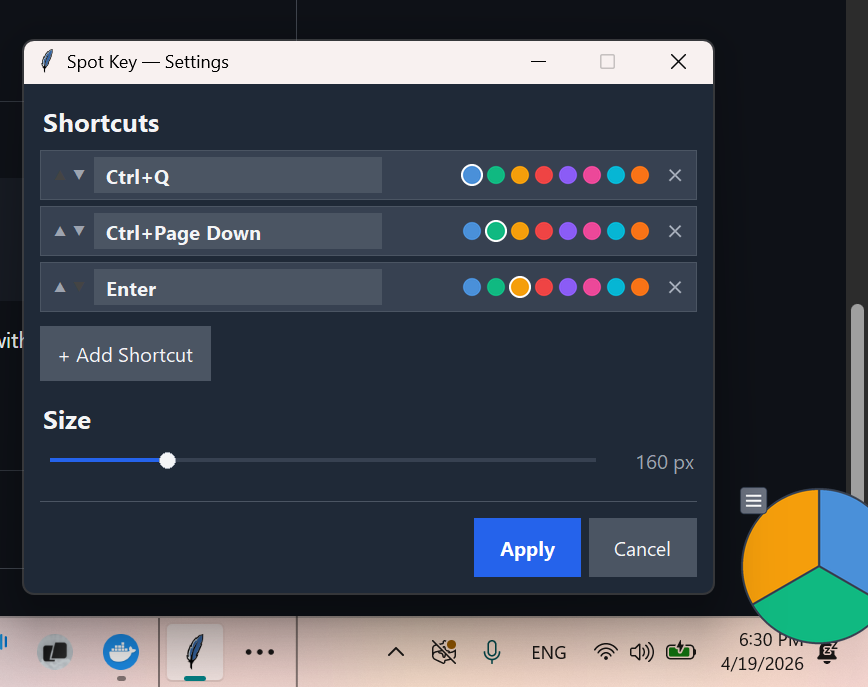
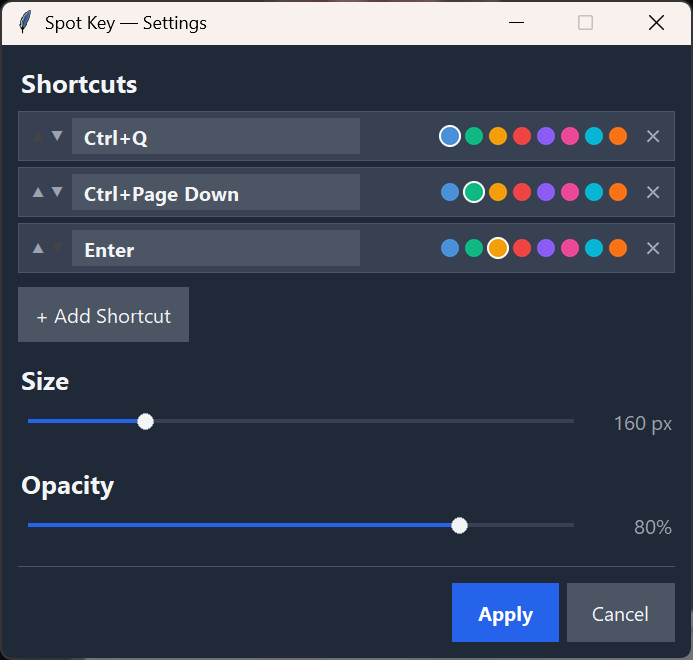
Update screenshots and add automated settings capture script
Updated both README screenshots to show the new opacity slider:
- screenshot.png: pie overlay at 80% opacity
- screenshot-settings.png: settings dialog with opacity slider visible

Added take_screenshot.py which programmatically opens the Settings dialog
using the current saved config, captures the window, and saves it as
screenshot-settings.png. This makes future README updates a single command:
  uv run python take_screenshot.py

The script creates a hidden tk root, loads shortcuts/diameter/opacity from
the config file, instantiates SettingsDialog with no-op callbacks, waits
for it to render, then uses DwmGetWindowAttribute + PIL.ImageGrab to
capture the exact window bounds.

diff --git a/take_screenshot.py b/take_screenshot.py
@@ -1,0 +1,120 @@
+"""Capture the Settings dialog and save as screenshot-settings.png.
+
+Usage:
+    uv run python take_screenshot.py
+
+Opens the Settings dialog using the current saved config (shortcuts,
+diameter, opacity), waits for it to render, captures the window, and
+saves the result to screenshot-settings.png in the project root.
+
+Fully automated — no need to have the app running.
+"""
+
+import ctypes
+import ctypes.wintypes as wt
+import sys
+import time
+import tkinter as tk
+from pathlib import Path
+
+from PIL import ImageGrab
+
+# Make process DPI-aware before any window creation
+ctypes.windll.user32.SetProcessDPIAware()
+
+SETTINGS_TITLE = "Spot Key \u2014 Settings"
+OUT_PATH = Path(__file__).parent / "screenshot-settings.png"
+
+
+def find_window(title: str) -> int | None:
+    """Find a visible window by exact title. Returns HWND or None."""
+    user32 = ctypes.windll.user32
+    result = []
+
+    @ctypes.WINFUNCTYPE(ctypes.c_bool, wt.HWND, wt.LPARAM)
+    def callback(hwnd, _):
+        if user32.IsWindowVisible(hwnd):
+            length = user32.GetWindowTextLengthW(hwnd)
+            if length:
+                buf = ctypes.create_unicode_buffer(length + 1)
+                user32.GetWindowTextW(hwnd, buf, length + 1)
+                if buf.value == title:
+                    result.append(hwnd)
+        return True
+
+    user32.EnumWindows(callback, 0)
+    return result[0] if result else None
+
+
+def get_window_rect(hwnd: int) -> tuple[int, int, int, int]:
+    """Get the extended frame bounds (tight, no invisible shadow)."""
+    rect = wt.RECT()
+    # DWMWA_EXTENDED_FRAME_BOUNDS = 9
+    hr = ctypes.windll.dwmapi.DwmGetWindowAttribute(
+        hwnd, 9, ctypes.byref(rect), ctypes.sizeof(rect)
+    )
+    if hr == 0:
+        return rect.left, rect.top, rect.right, rect.bottom
+    ctypes.windll.user32.GetWindowRect(hwnd, ctypes.byref(rect))
+    return rect.left, rect.top, rect.right, rect.bottom
+
+
+def capture_and_exit(root: tk.Tk) -> None:
+    """Find the Settings window, capture it, destroy the root, and exit."""
+    hwnd = find_window(SETTINGS_TITLE)
+    if hwnd is None:
+        print("ERROR: Settings window not found after opening.")
+        root.destroy()
+        sys.exit(1)
+
+    # Bring to front and let it fully paint
+    ctypes.windll.user32.SetForegroundWindow(hwnd)
+    root.update()
+    time.sleep(0.15)  # let DWM finish compositing
+
+    left, top, right, bottom = get_window_rect(hwnd)
+    print(f"Window rect: ({left}, {top}) - ({right}, {bottom})")
+    print(f"Size: {right - left} x {bottom - top}")
+
+    img = ImageGrab.grab(bbox=(left, top, right, bottom))
+    img.save(OUT_PATH)
+    print(f"Saved to {OUT_PATH} ({img.size[0]}x{img.size[1]})")
+
+    root.destroy()
+
+
+def main():
+    from spot_key.models import Config
+    from spot_key.persistence import load_state
+
+    # Load current saved config
+    state = load_state()
+    shortcuts = state.shortcuts or Config().shortcuts
+    diameter = state.diameter or Config().diameter
+    opacity = state.opacity if state.opacity is not None else Config().opacity
+
+    # Create a hidden root — the Settings dialog is a Toplevel on top of it
+    root = tk.Tk()
+    root.withdraw()
+
+    # Import here so tk is already initialised
+    from spot_key.settings import SettingsDialog
+
+    # Open settings with real config (no-op callbacks)
+    SettingsDialog(
+        root,
+        shortcuts=shortcuts,
+        diameter=diameter,
+        opacity=opacity,
+        on_apply=None,
+        on_preview_diameter=None,
+        on_preview_opacity=None,
+    )
+
+    # Schedule capture after the dialog has rendered
+    root.after(500, lambda: capture_and_exit(root))
+    root.mainloop()
+
+
+if __name__ == "__main__":
+    main()
